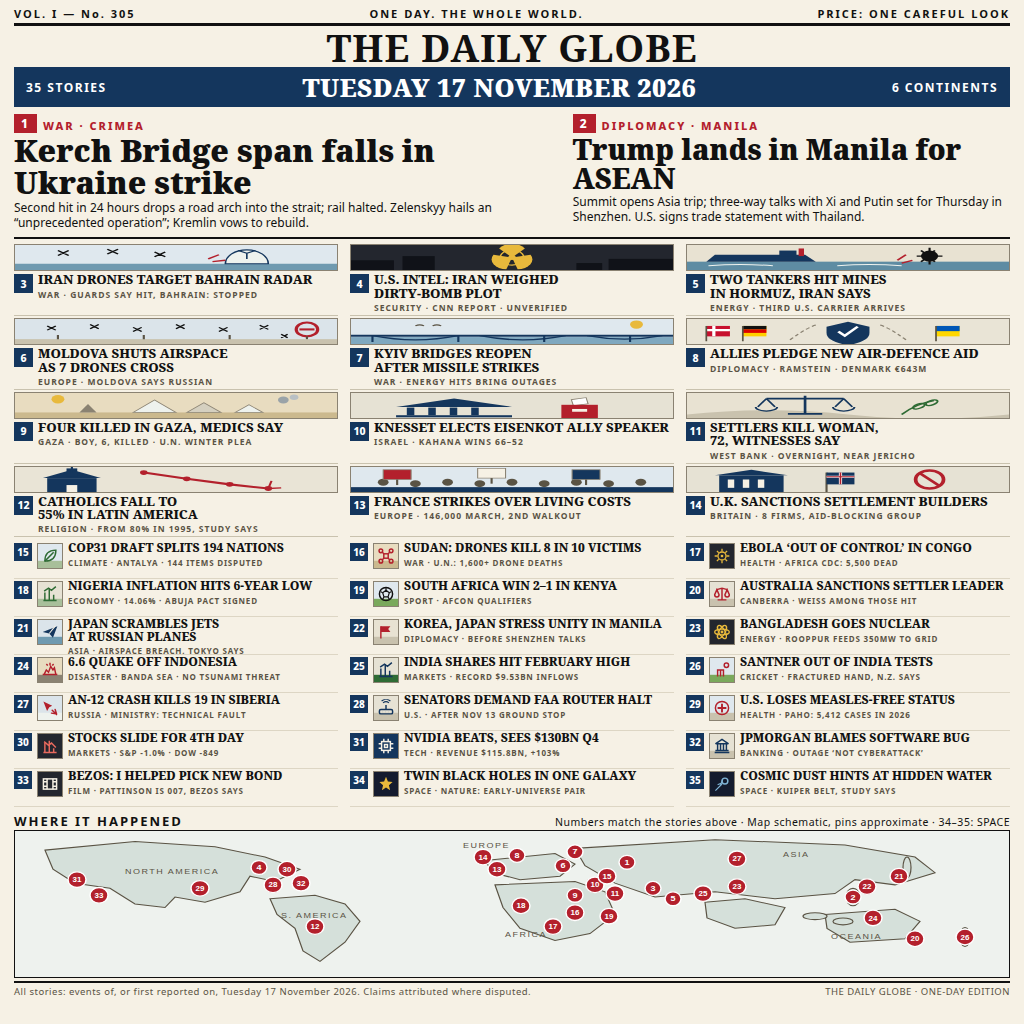
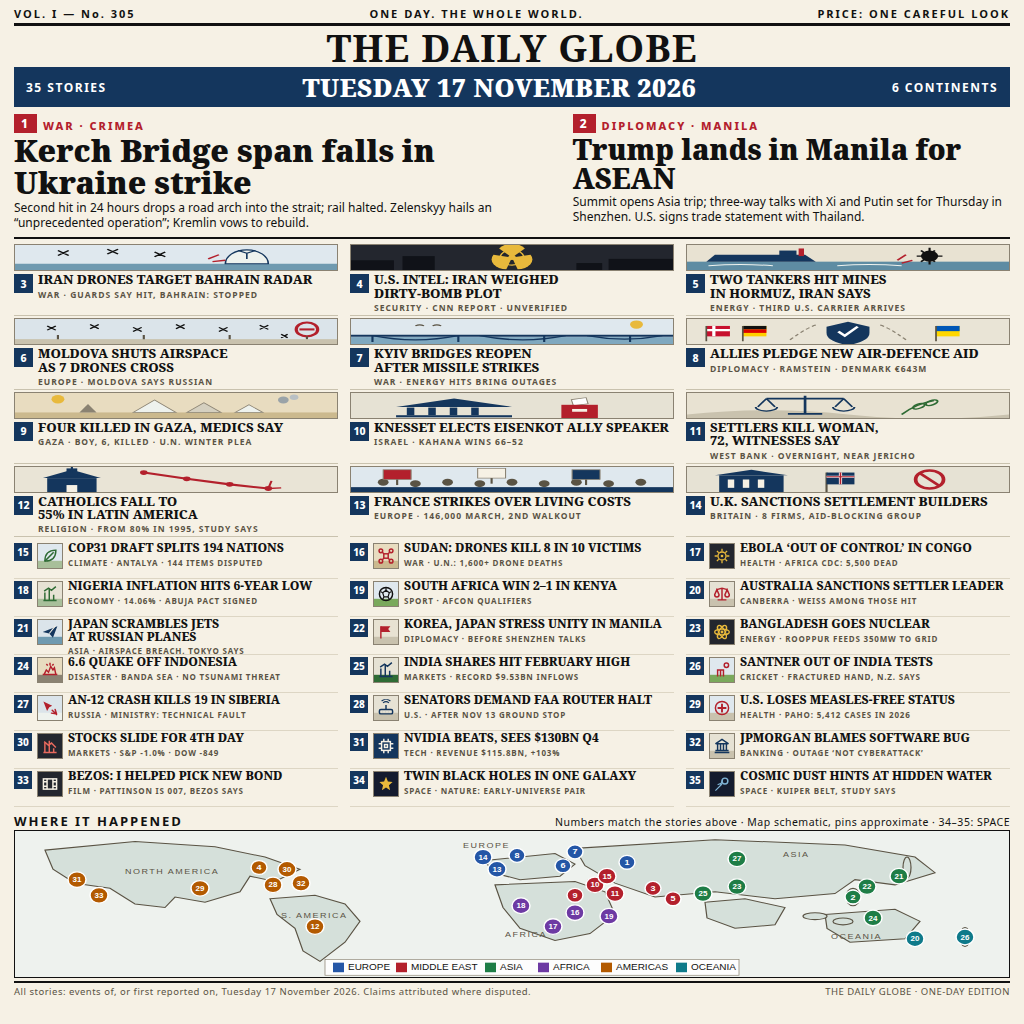
v2.5: region-colored map pins + legend

diff --git a/render.html b/render.html
@@ -163,14 +163,24 @@
         <text x="768" y="30">ASIA</text><text x="816" y="124">OCEANIA</text>
       </g>
       <g id="pins" font-family="sans-serif" font-weight="bold" text-anchor="middle"></g>
+      <g font-family="sans-serif" font-size="10">
+        <rect x="310" y="148" width="414" height="18" fill="#ffffff" opacity="0.92" stroke="#8a8272" stroke-width="0.8"/>
+        <rect x="318" y="151.5" width="11" height="11" fill="#2456a6"/><text x="333" y="160.5" fill="#111">EUROPE</text>
+        <rect x="381" y="151.5" width="11" height="11" fill="#b3202c"/><text x="396" y="160.5" fill="#111">MIDDLE EAST</text>
+        <rect x="470" y="151.5" width="11" height="11" fill="#1e7d46"/><text x="485" y="160.5" fill="#111">ASIA</text>
+        <rect x="523" y="151.5" width="11" height="11" fill="#6d3aa3"/><text x="538" y="160.5" fill="#111">AFRICA</text>
+        <rect x="586" y="151.5" width="11" height="11" fill="#b35a00"/><text x="601" y="160.5" fill="#111">AMERICAS</text>
+        <rect x="661" y="151.5" width="11" height="11" fill="#0e7a8a"/><text x="676" y="160.5" fill="#111">OCEANIA</text>
+      </g>
     </svg>
   </div>
 
   <div class="foot"><span>All stories: events of, or first reported on, Tuesday 17 November 2026. Claims attributed where disputed.</span><span>THE DAILY GLOBE &middot; ONE-DAY EDITION</span></div>
 </div>
 <script>
-const P=[[1,612,36],[2,838,76],[3,638,66],[4,244,42],[5,658,78],[6,548,40],[7,560,24],[8,502,28],[9,560,74],[10,580,62],[11,600,72],[12,300,110],[13,482,44],[14,468,30],[15,592,52],[16,560,94],[17,538,110],[18,506,86],[19,594,98],[20,900,124],[21,884,52],[22,852,64],[23,722,64],[24,858,100],[25,688,72],[26,950,122],[27,722,32],[28,258,62],[29,185,66],[30,272,44],[31,62,56],[32,286,60],[33,84,74]];
+const C={EU:'#2456a6',ME:'#b3202c',AS:'#1e7d46',AF:'#6d3aa3',AM:'#b35a00',OC:'#0e7a8a'};
+const P=[[1,612,36,'EU'],[2,838,76,'AS'],[3,638,66,'ME'],[4,244,42,'AM'],[5,658,78,'ME'],[6,548,40,'EU'],[7,560,24,'EU'],[8,502,28,'EU'],[9,560,74,'ME'],[10,580,62,'ME'],[11,600,72,'ME'],[12,300,110,'AM'],[13,482,44,'EU'],[14,468,30,'EU'],[15,592,52,'ME'],[16,560,94,'AF'],[17,538,110,'AF'],[18,506,86,'AF'],[19,594,98,'AF'],[20,900,124,'OC'],[21,884,52,'AS'],[22,852,64,'AS'],[23,722,64,'AS'],[24,858,100,'AS'],[25,688,72,'AS'],[26,950,122,'OC'],[27,722,32,'AS'],[28,258,62,'AM'],[29,185,66,'AM'],[30,272,44,'AM'],[31,62,56,'AM'],[32,286,60,'AM'],[33,84,74,'AM']];
 const g=document.getElementById('pins');
-P.forEach(([n,x,y])=>{const c=document.createElementNS('http://www.w3.org/2000/svg','circle');c.setAttribute('cx',x);c.setAttribute('cy',y);c.setAttribute('r',n>9?9:8);c.setAttribute('fill','#b3202c');c.setAttribute('stroke','#fff');c.setAttribute('stroke-width','1.5');g.appendChild(c);const t=document.createElementNS('http://www.w3.org/2000/svg','text');t.setAttribute('x',x);t.setAttribute('y',y+3);t.setAttribute('fill','#fff');t.setAttribute('font-size',n>9?8:9);t.textContent=n;g.appendChild(t);});
+P.forEach(([n,x,y,r])=>{const c=document.createElementNS('http://www.w3.org/2000/svg','circle');c.setAttribute('cx',x);c.setAttribute('cy',y);c.setAttribute('r',n>9?9:8);c.setAttribute('fill',C[r]);c.setAttribute('stroke','#fff');c.setAttribute('stroke-width','1.5');g.appendChild(c);const t=document.createElementNS('http://www.w3.org/2000/svg','text');t.setAttribute('x',x);t.setAttribute('y',y+3);t.setAttribute('fill','#fff');t.setAttribute('font-size',n>9?8:9);t.textContent=n;g.appendChild(t);});
 </script>
 </body></html>
